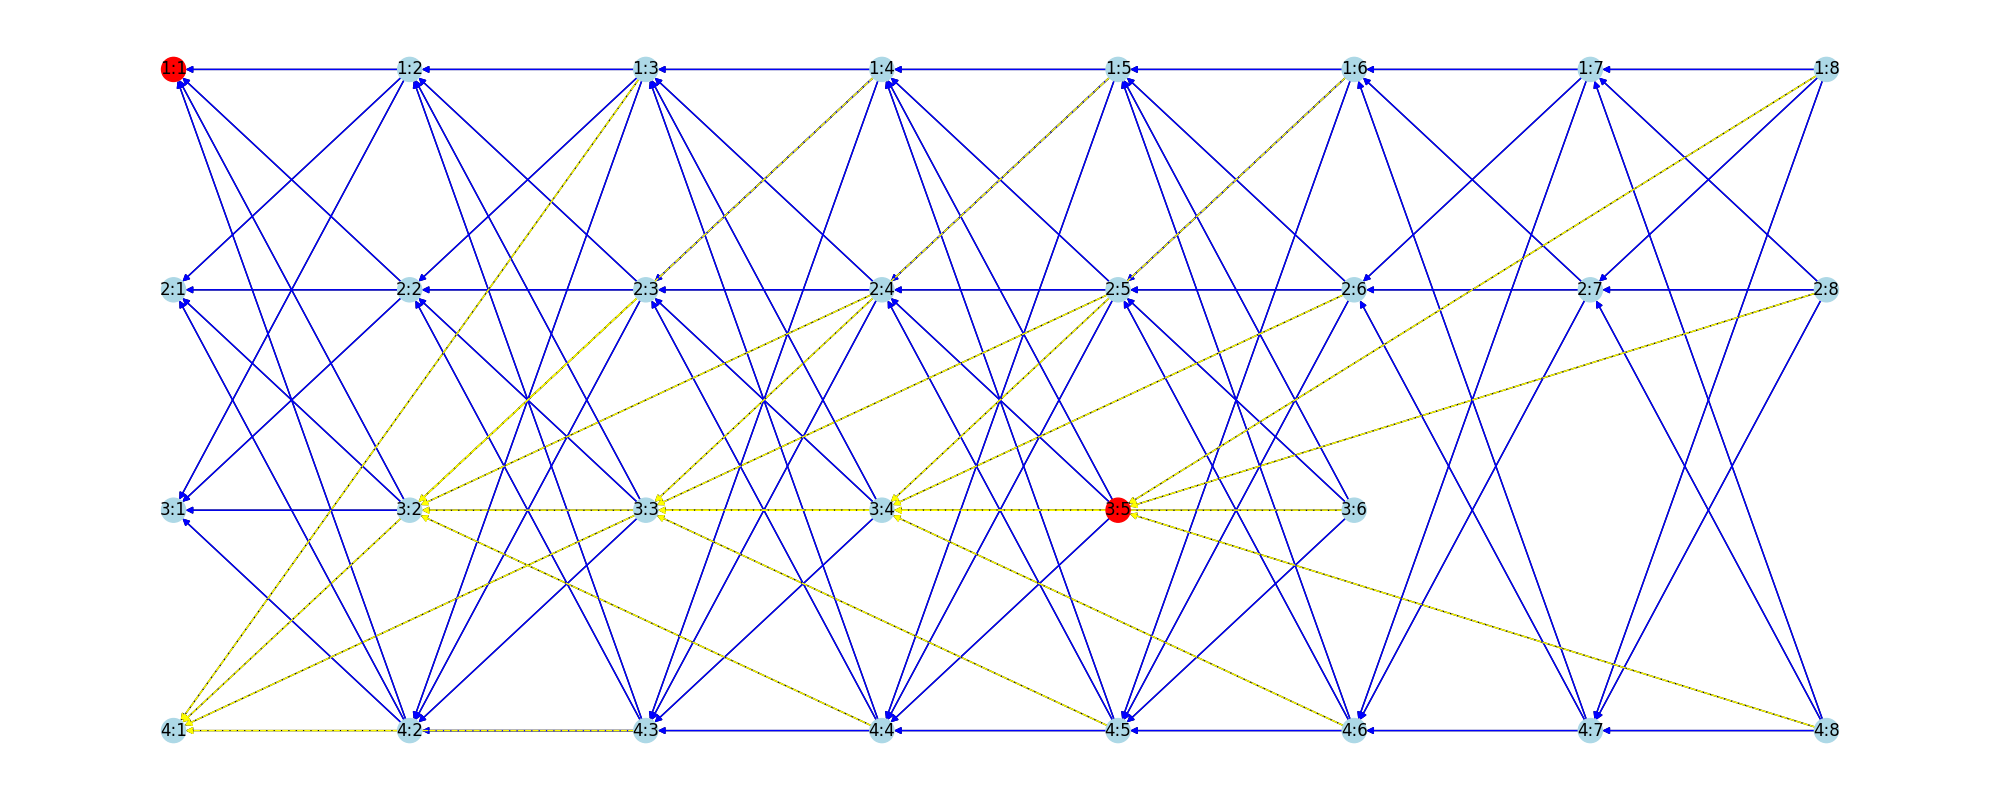
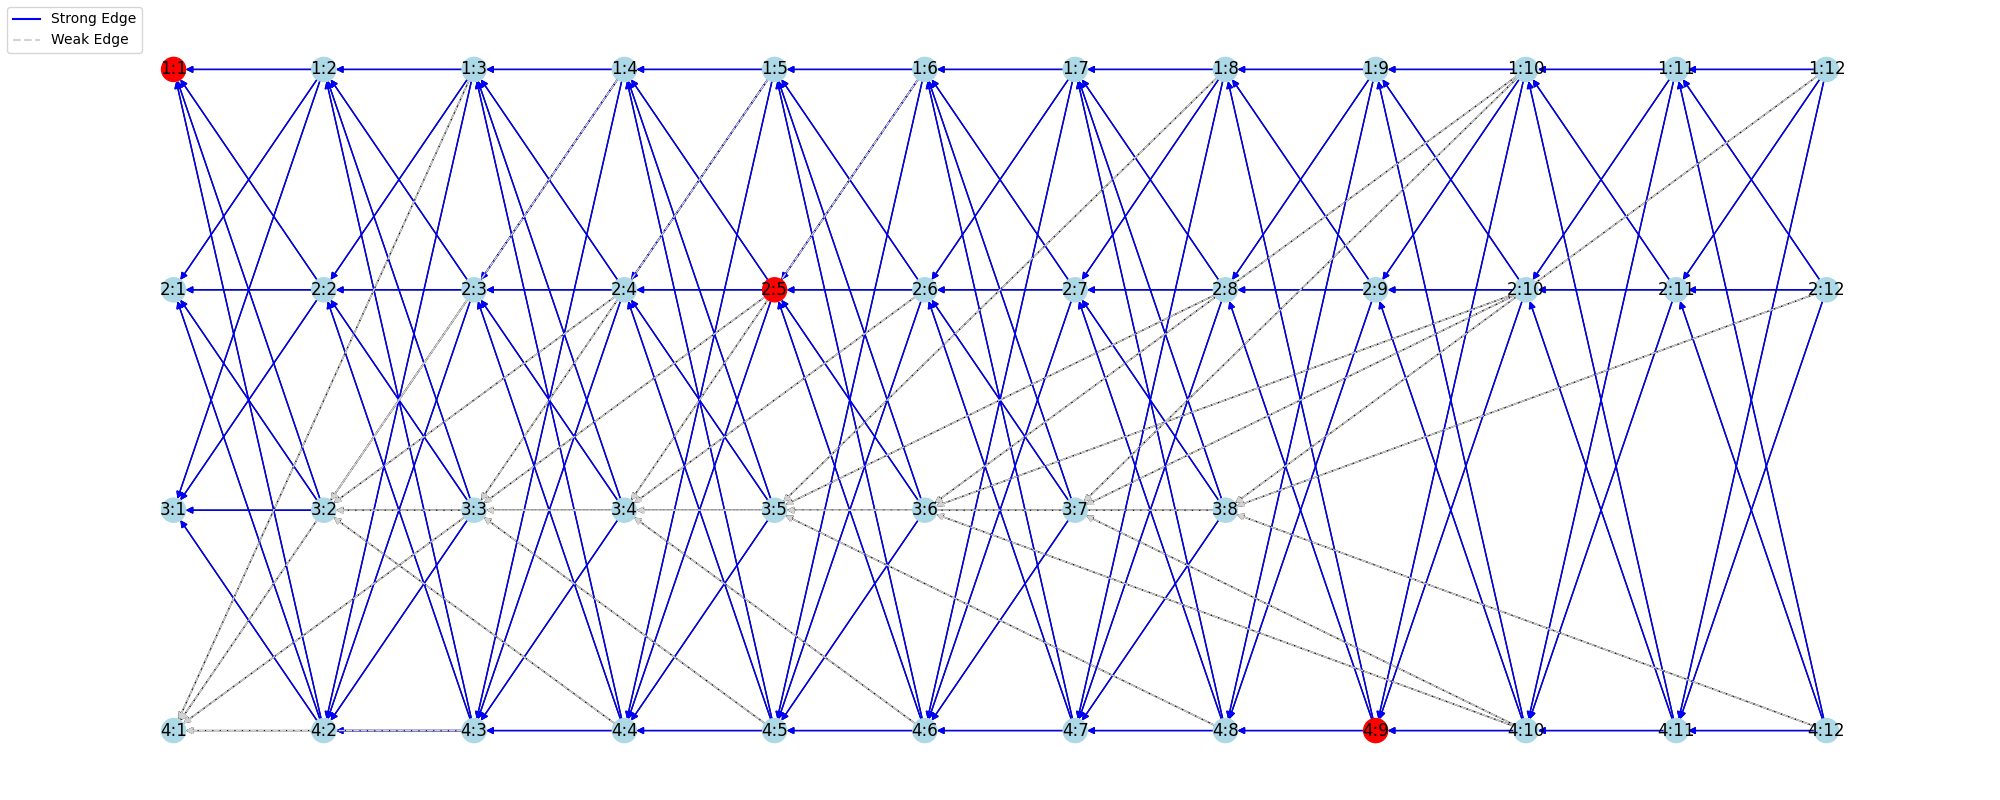
Testing with change in leaders

diff --git a/DCDN_Node_Configuration/application.py b/DCDN_Node_Configuration/application.py
@@ -553,6 +553,8 @@ def compute_global_coin(wave):
     if combined_secret:
         combined_secret = sum([ord(char) for char in str(combined_secret)])
         leader = (combined_secret % my_node.total_nodes) + 1
+        if leader == 3:
+            leader = random.choice([1,2,4])
         my_node.leaders[wave] = leader
         
 
